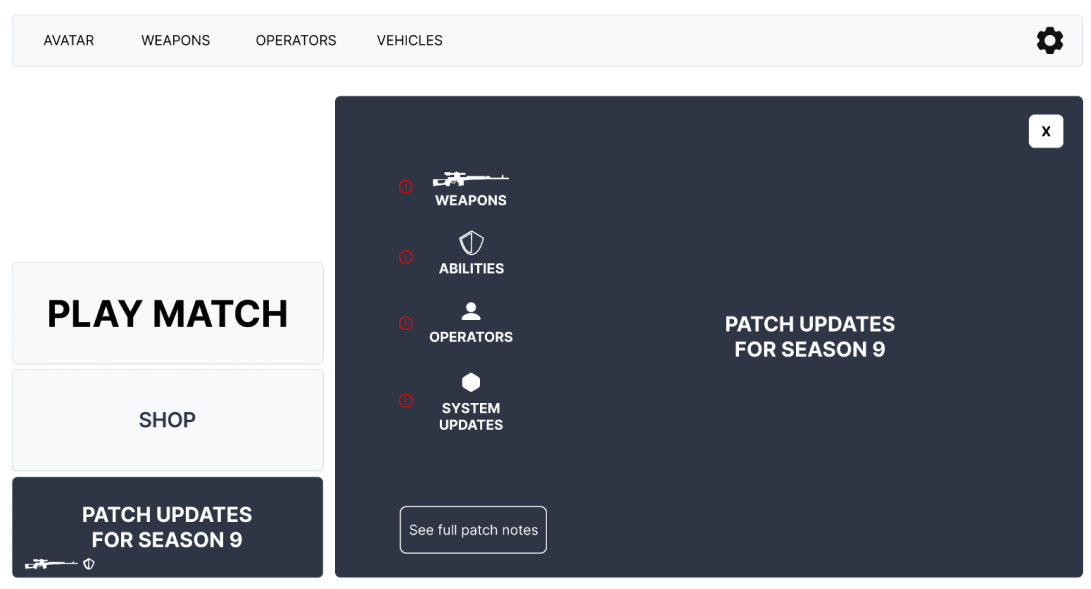
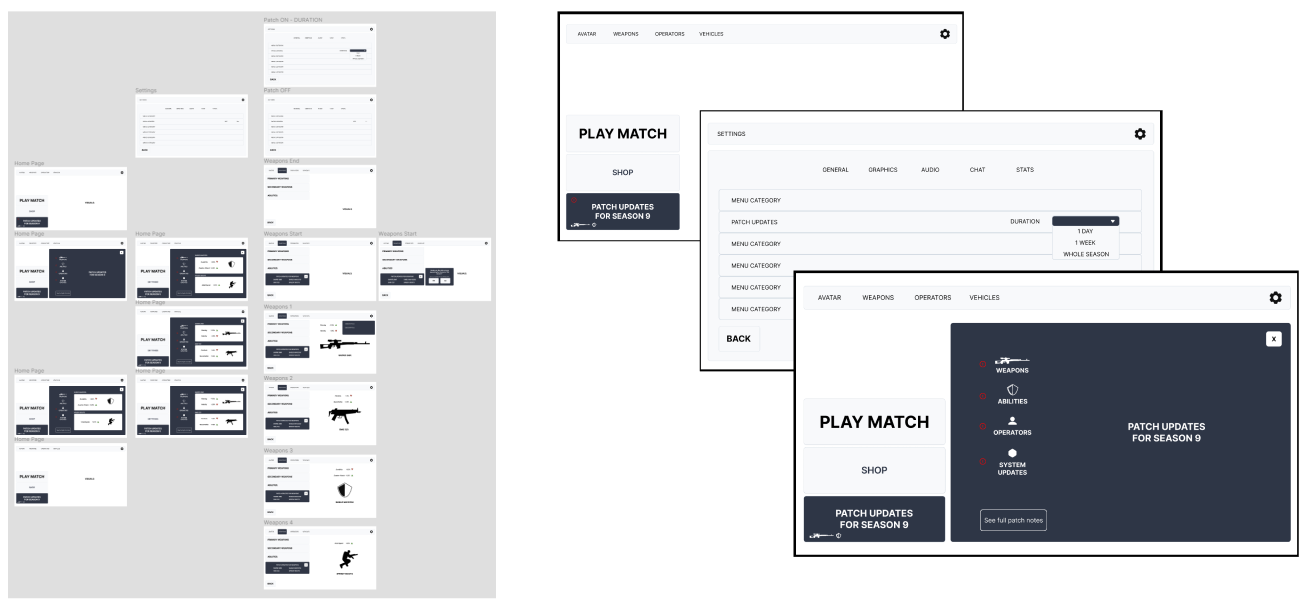
added ui-ux case study

diff --git a/index.html b/index.html
@@ -98,10 +98,10 @@
               <div class="col-md-12 col-lg-6 text-start text-lg-end" data-aos="fade-up" data-aos-delay="100">
                 <div id="filters" class="filters">
                   <a href="#" data-filter="*" class="active">All</a>
-                  <a href="#" data-filter=".grux">Games UX Research & UX Design</a>
-                  <a href="#" data-filter=".ux-ui">Games UX/UI</a>
-                  <a href="#" data-filter=".ui-ux">Games UI/UX</a>
-                  <a href="#" data-filter=".projects">Passion Projects</a>
+                  <a href="#" data-filter=".grux">UX Research & UX Design</a>
+                  <!-- <a href="#" data-filter=".ux-ui">UX/UI</a> -->
+                  <a href="#" data-filter=".ui-ux">UI/UX</a>
+                  <!-- <a href="#" data-filter=".projects">Passion Projects</a> -->
                   <!-- <a href="#" data-filter=".other-ux">Other UX Portfolios</a> -->
                 </div>
               </div>
@@ -116,6 +116,17 @@
                   <img class="img-fluid" src="assets/img/fps-feature-cs/Thumbnail.png">
                 </a>
               </div>
+
+              <div class="item ui-ux col-sm-6 col-md-4 col-lg-4 mb-4">
+                <a href="https://www.figma.com/proto/sY7k3SM2y4EWxE5pKPjlIY/%5BAna-Louise-T.%5D-Gaming-UI-Assignments?page-id=528%3A2392&type=design&node-id=528-2414&viewport=674%2C674%2C0.03&scaling=scale-down&starting-point-node-id=528%3A2414" class="item-wrap fancybox" target="_blank">
+                  <div class="work-info">
+                    <h3>UI/UX & Unity Implementation</h3>
+                    <span>UI/UX</span>
+                  </div>
+                  <img class="img-fluid" src="assets/img/elvtr-cs/Thumbnil UI-UX-Unity.png">
+                </a>
+              </div>
+
               <div class="item ui-ux col-sm-6 col-md-4 col-lg-4 mb-4">
                 <a href="./game-jam-cs-page.html" class="item-wrap fancybox">
                   <div class="work-info">
@@ -125,15 +136,6 @@
                   <img class="img-fluid" src="./assets/img/game-jam-case-study/Thumbnail Game Jam 2023.png">
                 </a>
               </div>
-              <!-- <div class="item ui-ux col-sm-6 col-md-4 col-lg-4 mb-4">
-                <a href="#/" class="item-wrap fancybox">
-                  <div class="work-info">
-                    <h3>UI/UX & Unity Implementation</h3>
-                    <span>UI/UX</span>
-                  </div>
-                  <img class="img-fluid" src="assets/img/Thumbnail.png">
-                </a>
-              </div> -->
               <!-- <div class="item other-ux col-sm-6 col-md-4 col-lg-4 mb-4">
                 <a href="./ucb-highlight-reel-page.html" class="item-wrap fancybox">
                   <div class="work-info">
